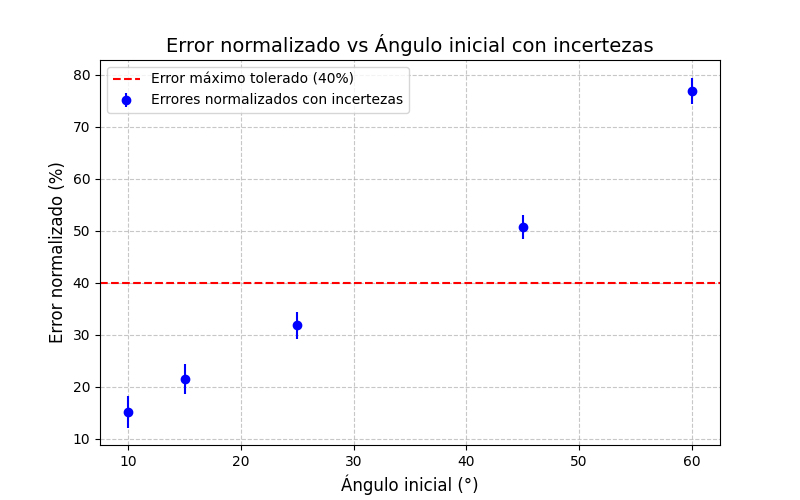
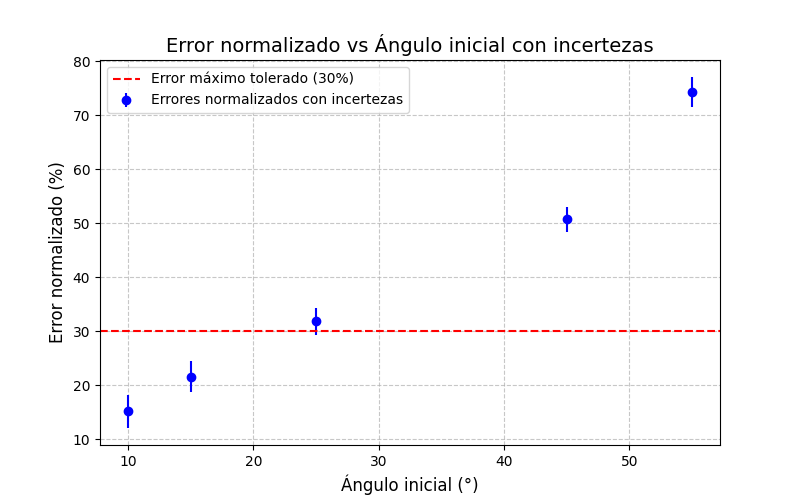
listo peq osci

diff --git a/TP2/informe_tp2.tex b/TP2/informe_tp2.tex
@@ -209,14 +209,16 @@ El valor del ECM se presenta en la Figura \ref{fig:pequeñas_oscilaciones}, dond
 
 \begin{figure}[H]
     \centering
-    \includegraphics[width=0.6\linewidth]{peq_oscilaciones.png}
+    \includegraphics[width=0.6\linewidth]{errores_normalizados_incertezas.png}
     \caption{Error cuadrático medio bajo la aproximación de pequeñas oscilaciones con m = $(23\pm1)$ g y L = $(42.0\pm0.1)$ cm.}
     \label{fig:pequeñas_oscilaciones}
 \end{figure}
-Observando el gráfico de la Figura \ref{fig:pequeñas_oscilaciones}, determinamos que la aproximación de pequeñas oscilaciones es válida hasta aproximadamente $30^\circ$, para determinar el ángulo máximo que cumple esta condición realizamos un ajuste cuadrático el cual representa una predicción del error para los distintos $\phi$ y definimos un error máximo de 40, como se observa en el gráfico, el error de $25^\circ$ esta por encima del ajuste cuadrático, esto se debe a los errores de mediciones, una observación que tuvimos sobre las mediciones es que el error para la trayectoria con angulo inicial de $45^\circ$ es bastante buena, sin embargo esto no es correcto ya que debido al angulo de la cámara y el movimiento imperfecto del péndulo provoco que esta trayectoria sea mejor de lo que debería haber sido. Este resultado sugiere que, para ángulos iniciales menores a $30^\circ$, la trayectoria experimental se aproxima adecuadamente a la predicha por la teoría de oscilaciones pequeñas, cumpliendo así con las condiciones lineales esperadas.
+Observando el gráfico de la Figura \ref{fig:pequeñas_oscilaciones}, determinamos que la aproximación de pequeñas oscilaciones es válida hasta aproximadamente \(25^\circ\). Para identificar el ángulo máximo que cumple esta condición, calculamos el error cuadrático medio normalizado respecto al ángulo inicial, considerando las incertidumbres asociadas. Decidimos tolerar un error máximo del \(30\%\). Como se observa en el gráfico, el error correspondiente a \(25^\circ\) es el ángulo máximo que, considerando sus incertidumbres, cumple con nuestra tolerancia.
+
+Este resultado sugiere que, para ángulos iniciales menores a \(25^\circ\), la trayectoria experimental se ajusta adecuadamente a la predicha por la teoría de pequeñas oscilaciones, cumpliendo así con las condiciones lineales esperadas.
 
 \section{Conclusiones}
 
-Se investigó el comportamiento de un péndulo simple y su relación con la longitud de la cuerda y la masa del péndulo, confirmando que bajo la asumpción de pequeñas oscilaciones la frecuencia de oscilación depende únicamente de la longitud. La gravedad efectiva obtenida fue de \((9.5 \pm 0.6) \, \text{m/s}^2\), consistente con el valor teórico esperado el cual es \(9.8 \, \text{m/s}^2\). Se observaron frecuencias angulares (\(\omega\)) de \((0.75 \pm 0.02)\, \text{s}^{-1}\) para \(42 \, \text{cm}\), \((0.98 \pm 0.02) \, \text{s}^{-1}\) para \(26 \, \text{cm}\) y \((1.3 \pm 0.02) \, \text{s}^{-1}\) para \(15 \, \text{cm}\), corroborando la relación inversa entre longitud y frecuencia con los valores teóricos los cuales son \(0.77 \text{s}^{-1}\) para \(42 \, \text{cm}\), \(0.98 \text{s}^{-1}\) para \(26 \, \text{cm}\), \(1.29 \text{s}^{-1}\) para \(15 \, \text{cm}\), observamos que nuestros resultados son acertados de nuestro rango de error. Adicionalmente, se determinó que el rango de ángulos donde se cumplen las condiciones de pequeñas oscilaciones es aproximadamente hasta $30^\circ$. Estos resultados reafirman los principios de la dinámica oscilatoria y respaldan la aplicación del modelo de pequeñas oscilaciones en el estudio de sistemas físicos similares.
+Se investigó el comportamiento de un péndulo simple y su relación con la longitud de la cuerda y la masa del péndulo, confirmando que bajo la asumpción de pequeñas oscilaciones la frecuencia de oscilación depende únicamente de la longitud. La gravedad efectiva obtenida fue de \((9.5 \pm 0.6) \, \text{m/s}^2\), consistente con el valor teórico esperado el cual es \(9.8 \, \text{m/s}^2\). Se observaron frecuencias angulares (\(\omega\)) de \((0.75 \pm 0.02)\, \text{s}^{-1}\) para \(42 \, \text{cm}\), \((0.98 \pm 0.02) \, \text{s}^{-1}\) para \(26 \, \text{cm}\) y \((1.3 \pm 0.02) \, \text{s}^{-1}\) para \(15 \, \text{cm}\), corroborando la relación inversa entre longitud y frecuencia con los valores teóricos los cuales son \(0.77 \text{s}^{-1}\) para \(42 \, \text{cm}\), \(0.98 \text{s}^{-1}\) para \(26 \, \text{cm}\), \(1.29 \text{s}^{-1}\) para \(15 \, \text{cm}\), observamos que nuestros resultados son acertados de nuestro rango de error. Adicionalmente, se determinó que el rango de ángulos donde se cumplen las condiciones de pequeñas oscilaciones es aproximadamente hasta $25^\circ$. Estos resultados reafirman los principios de la dinámica oscilatoria y respaldan la aplicación del modelo de pequeñas oscilaciones en el estudio de sistemas físicos similares.
 
 \end{document}

diff --git a/TP2/error_pequeñas_oscilaciones.py b/TP2/error_pequeñas_oscilaciones.py
@@ -37,7 +37,7 @@ def main():
     theta_theory_15 = theoretical_oscillation(15, t_theory, L=L_nominal)
     theta_theory_25 = theoretical_oscillation(25, t_theory, L=L_nominal)
     theta_theory_45 = theoretical_oscillation(45, t_theory, L=L_nominal)
-    theta_theory_60 = theoretical_oscillation(60, t_theory, L=L_nominal)
+    theta_theory_60 = theoretical_oscillation(55, t_theory, L=L_nominal)
 
     # Calcular errores normalizados
     error_10 = interpolate_and_calculate_error(t10, theta10, t_theory, theta_theory_10)
@@ -47,7 +47,7 @@ def main():
     error_60 = interpolate_and_calculate_error(t60, theta60, t_theory, theta_theory_60)
 
     # Calcular incertezas en el error por ángulo y longitud
-    angles = np.array([10, 15, 25, 45, 60])
+    angles = np.array([10, 15, 25, 45, 55])
     errors = np.array([error_10, error_15, error_25, error_45, error_60])
     uncertainty_angle = (errors / angles) * d_angle
     uncertainty_length = (errors / L_nominal) * d_L
@@ -56,7 +56,7 @@ def main():
     # Gráfico de dispersión con barras de error
     plt.figure(figsize=(8, 5))
     plt.errorbar(angles, errors, yerr=total_uncertainty, fmt='o', color='blue', label='Errores normalizados con incertezas')
-    plt.axhline(40, color='red', linestyle='--', label='Error máximo tolerado (40%)')  # Línea de error máximo tolerado
+    plt.axhline(30, color='red', linestyle='--', label='Error máximo tolerado (30%)')  # Línea de error máximo tolerado
 
     # Configuración del gráfico
     plt.xlabel('Ángulo inicial (°)', fontsize=12)
